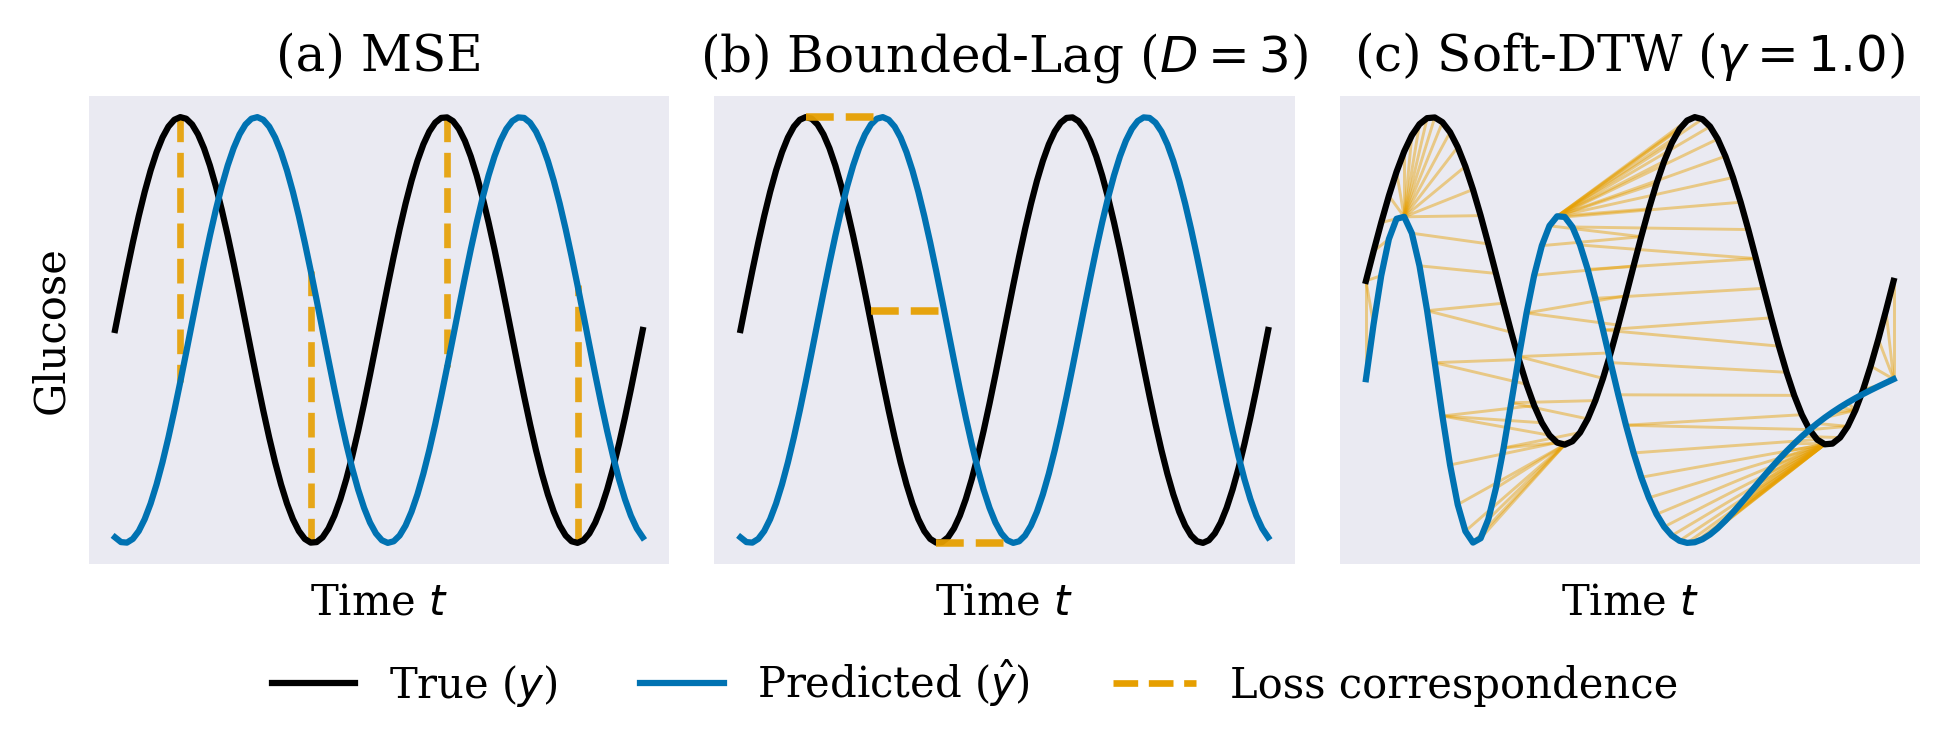
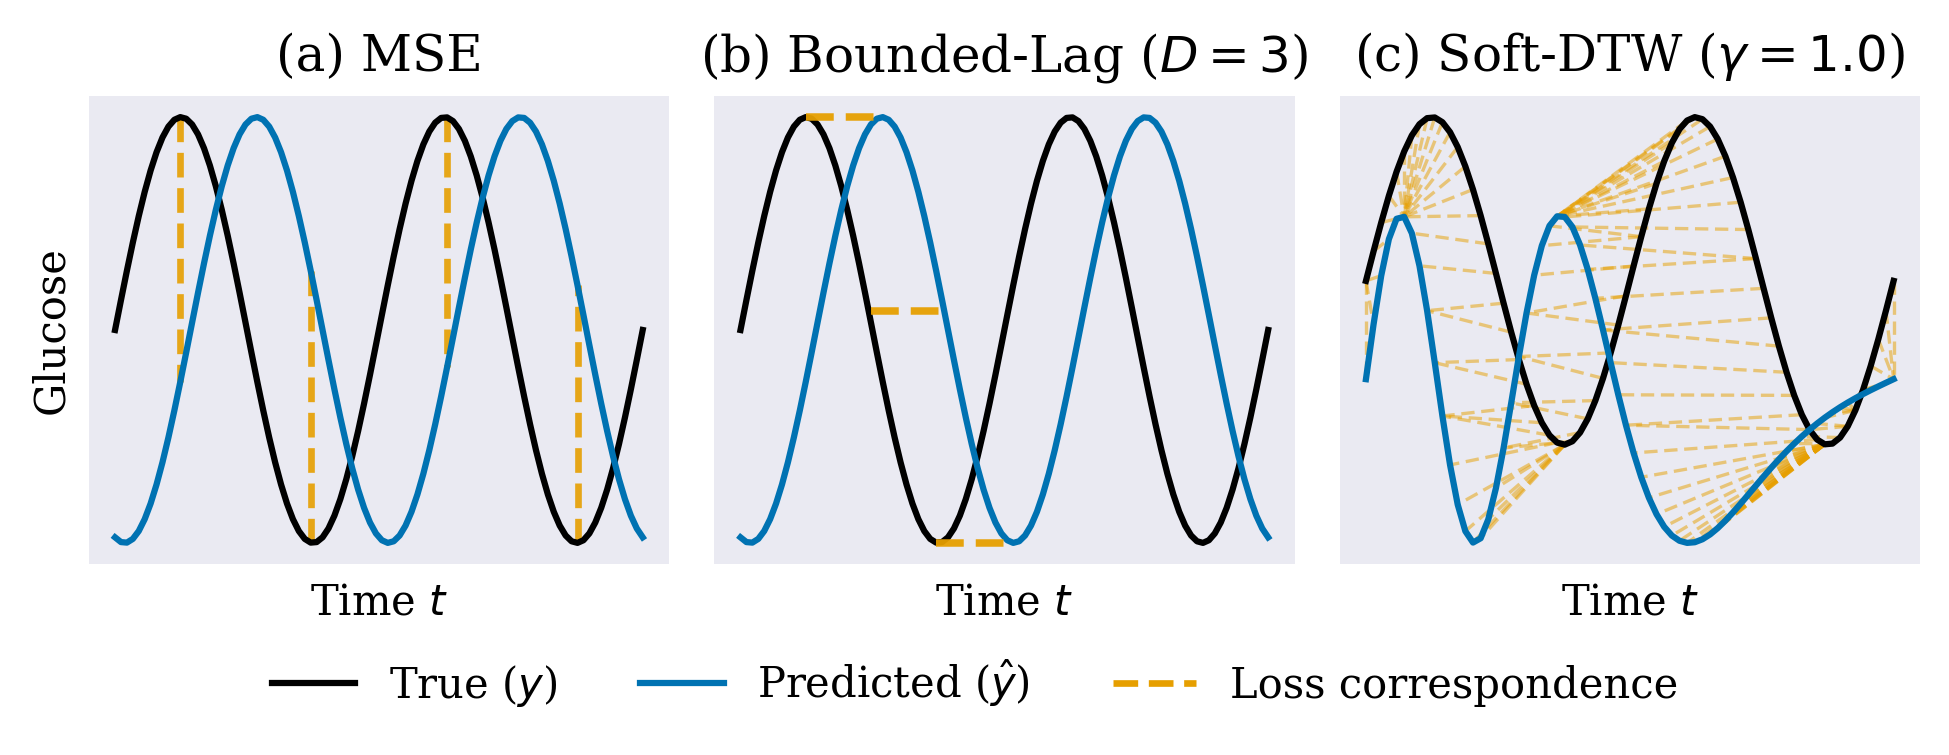
Figure 2.3: dashed Soft-DTW correspondences for consistency
Draw the Soft-DTW warping-path correspondences with the same dashed style as
the MSE and Bounded-Lag panels (and the "Loss correspondence" legend entry),
instead of solid lines, so all three panels are consistent.

diff --git a/generate_plots.py b/generate_plots.py
@@ -124,7 +124,7 @@ while i > 0 and j > 0:
         j -= 1
 for i1, i2 in path:
     ax.plot([x[i1], x[i2]], [sig1[i1], sig2[i2]], color=COL_LINK,
-            linewidth=0.7, alpha=0.45)
+            linestyle=(0, (4, 2)), linewidth=0.8, alpha=0.5)
 ax.plot(x, sig1, color=COL_TRUE, linewidth=1.5)
 ax.plot(x, sig2, color=COL_PRED, linewidth=1.5)
 style(ax, "(c) Soft-DTW ($\\gamma{=}1.0$)")